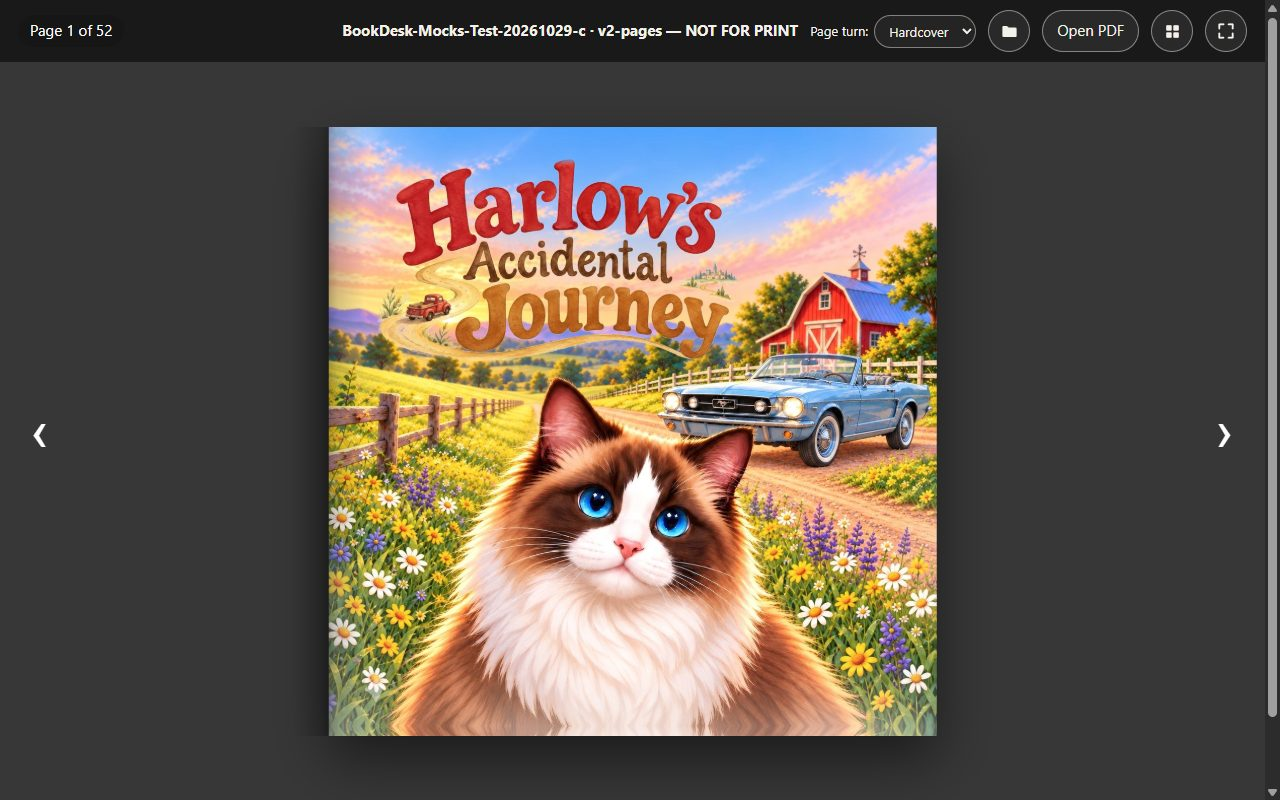
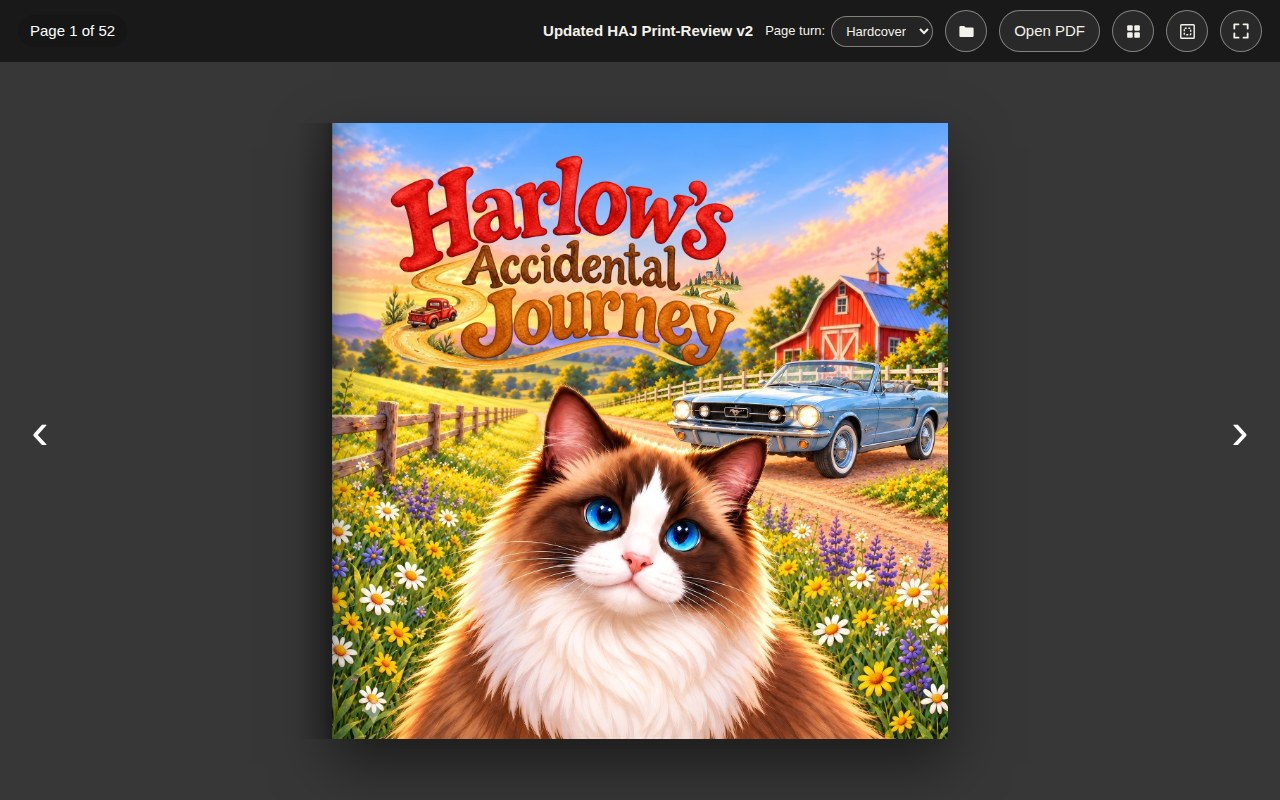
Publish v4 gallery refresh on main

Changed region(s): [[0.25, 0.125, 0.75, 0.9375], [0.25, 0.0, 1.0, 0.9062], [0.0312, 0.0312, 0.0938, 0.0625]]

diff --git a/README.md b/README.md
@@ -17,7 +17,7 @@
 
 Double-click `index.html` to open the same viewer with no server. The page images ride along as data URIs, so the 3D turn still works. GitHub Pages does not download that file; it keeps using the JPGs. Open PDF, or drop a PDF on the page, reads that file on this computer. It does not fetch a PDF by path.
 
-![Harlow cover on the dark hardcover stage](https://github.com/MyDigitalStudioz/3D-Flip-BookVizon/raw/3D-Flip-BookVizon-v2/media/hero.jpg?v=20261029-4)
+![Harlow cover on the dark hardcover stage](https://github.com/MyDigitalStudioz/3D-Flip-BookVizon/raw/3D-Flip-BookVizon-v4/media/hero.jpg?v=20261101-1)
 
 ## Screenshots
 
@@ -25,15 +25,15 @@ Captured from the working viewer on `3D-Flip-BookVizon-v2`. Refresh these files,
 
 **Cover** — the book closed on the dark stage.
 
-![Harlow cover](https://github.com/MyDigitalStudioz/3D-Flip-BookVizon/raw/3D-Flip-BookVizon-v2/media/hero.jpg?v=20261029-4)
+![Harlow cover](https://github.com/MyDigitalStudioz/3D-Flip-BookVizon/raw/3D-Flip-BookVizon-v4/media/hero.jpg?v=20261101-1)
 
 **Mid-book** — pages 4–5, the first story spread.
 
-![Story spread, pages 4 and 5](https://github.com/MyDigitalStudioz/3D-Flip-BookVizon/raw/3D-Flip-BookVizon-v2/media/spread.jpg?v=20261029-4)
+![Story spread, pages 4 and 5](https://github.com/MyDigitalStudioz/3D-Flip-BookVizon/raw/3D-Flip-BookVizon-v4/media/spread.jpg?v=20261101-1)
 
 **Phone** — the same cover at a 390px-wide window.
 
-![Phone view of the cover](https://github.com/MyDigitalStudioz/3D-Flip-BookVizon/raw/3D-Flip-BookVizon-v2/media/mobile.jpg?v=20261029-4)
+![Phone view of the cover](https://github.com/MyDigitalStudioz/3D-Flip-BookVizon/raw/3D-Flip-BookVizon-v4/media/mobile.jpg?v=20261101-1)
 
 ## What's inside
 
